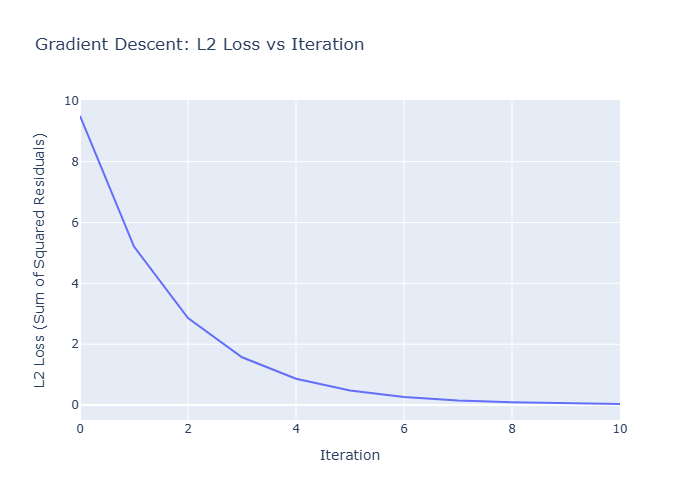
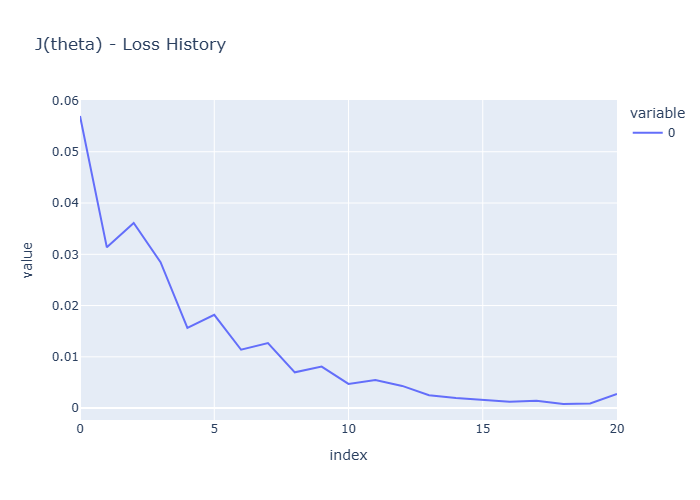
finished task 4.2

diff --git a/KnutKnut/KnutKnutRealEstate/Task4GradientDescent.py b/KnutKnut/KnutKnutRealEstate/Task4GradientDescent.py
@@ -16,6 +16,45 @@ def gradient_J_squared_residual(theta, bias, X, y):
     grad_bias = np.sum(error)              # scalar
     return grad_theta, grad_bias
 
+def sgd(X, y, learning_rate=0.1, epochs=1000, batch_size=2, random_seed=None, bias=0.0):
+    # X: shape (m, n_features)
+    # y: shape (m, 1) or (m,)
+    if random_seed is not None:
+        np.random.seed(random_seed)
+    m, n_features = X.shape
+    # initialize weights and bias
+    theta = np.random.randn(n_features, 1)  # shape (n_features,1)
+    cost_history = []
+
+    for epoch in range(epochs):
+        indices = np.random.permutation(m)
+        X_shuffled = X[indices]
+        y_shuffled = y[indices]
+
+        for i in range(0, m, batch_size):
+            X_batch = X_shuffled[i:i + batch_size]
+            y_batch = y_shuffled[i:i + batch_size]
+
+            # ensure shapes: X_batch (b, n), theta (n,1) -> preds (b,1)
+            preds = X_batch.dot(theta) + bias
+            error = preds - y_batch.reshape(-1, 1)  # make column vector
+
+            grad_theta = (2.0 / X_batch.shape[0]) * (X_batch.T.dot(error))  # (n,1)
+            grad_bias = (2.0 / X_batch.shape[0]) * error.sum()              # scalar
+
+            theta = theta - learning_rate * grad_theta
+            bias = bias - learning_rate * grad_bias
+
+        # optionally compute cost on whole set (mean squared error)
+        preds_full = X.dot(theta) + bias
+        cost = np.mean((preds_full - y.reshape(-1, 1)) ** 2)
+        cost_history.append(cost)
+
+        if epoch % 100 == 0:
+            print(f"Epoch {epoch}, Cost: {cost:.6f}")
+
+    return theta, bias, cost_history
+
 # the dataset: plain features (no column of ones) and targets
 X = np.array([[0.5], [1.0], [2.0]])    # shape (m, n_features)
 y = np.array([[1.0], [1.5], [2.5]])    # shape (m, 1)
@@ -26,22 +65,10 @@ theta = np.zeros((n_features, 1))    # weight vector (n_features,1)
 bias = 0.0                           # scalar bias
 learning_rate = 0.1
 
-# run GD
-j_history = []
-n_iters = 10
-for it in range(n_iters):
-    j = J_squared_residual(theta, bias, X, y)
-    j_history.append(j)
-
-    grad_theta, grad_bias = gradient_J_squared_residual(theta, bias, X, y)
-
-    # mean gradients
-    grad_theta = (1/m) * grad_theta
-    grad_bias = (1/m) * grad_bias
-
-    # parameter updates
-    theta = theta - learning_rate * grad_theta
-    bias = bias - learning_rate * grad_bias
+# run SGD
+n_epochs = 20
+batch_size = 1
+theta, bias, j_history = sgd(X, y, learning_rate, n_epochs, batch_size, bias=bias)
 
 print("theta shape:", theta.shape)
 
@@ -61,5 +88,5 @@ v = ((y - y.mean())**2).sum()
 print("R^2: {:.6f}".format(1 - (u/v)))
 
 # plot the result
-fig = px.line(x=list(range(n_iters+1)), y=j_history, labels={'x':'Iteration', 'y':'L2 Loss (Sum of Squared Residuals)'}, title='Gradient Descent: L2 Loss vs Iteration')
+fig = px.line(j_history, title="J(theta) - Loss History")
 fig.write_image("Task4_GD_L2_Loss.png")
